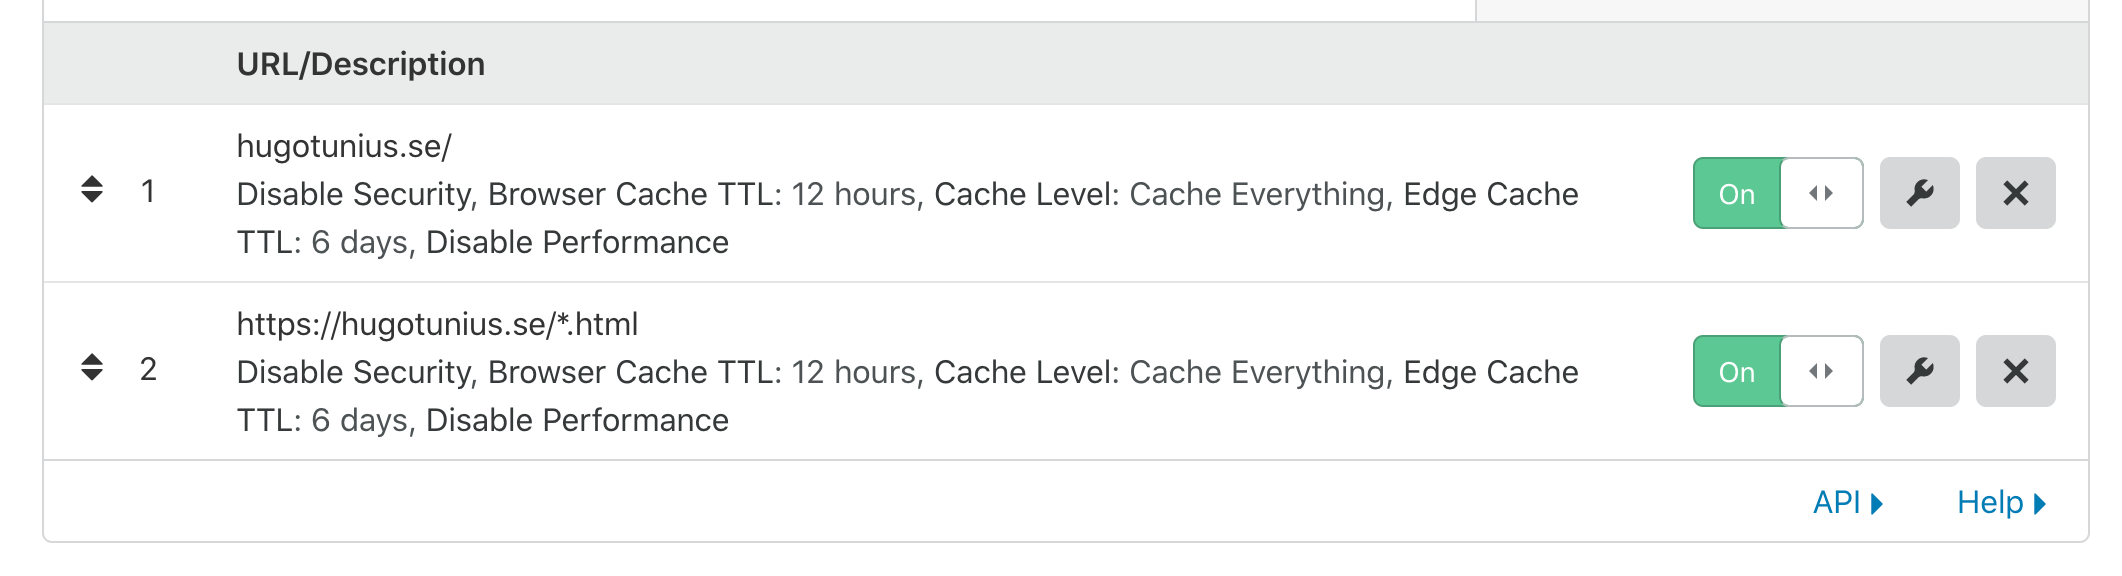
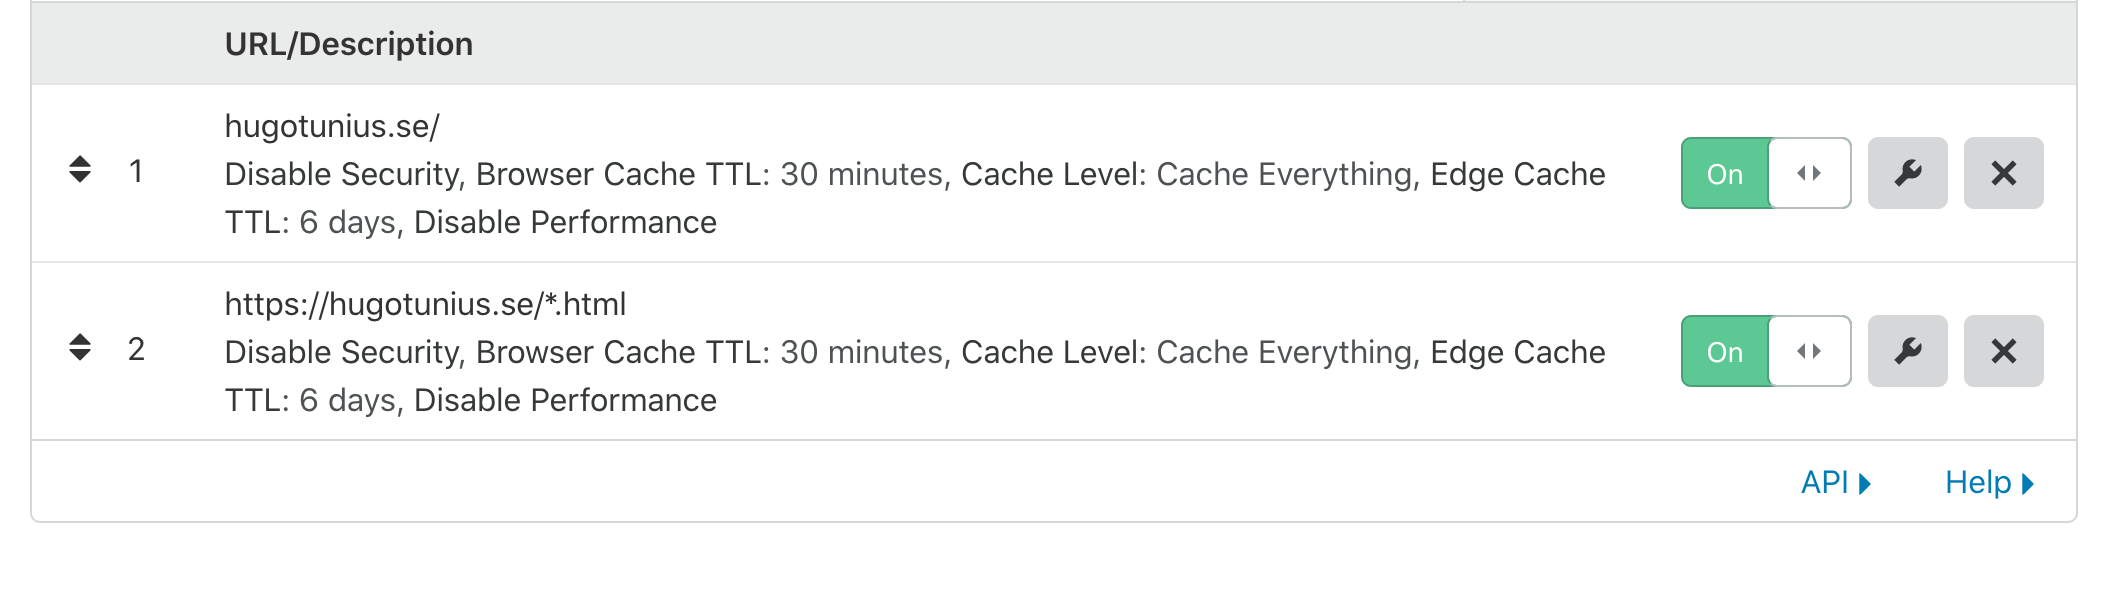
[CG Edge Cache] Browse cache settings

diff --git a/_posts/2020-01-01-edge-cached-static-sites-on-cloudflare.md b/_posts/2020-01-01-edge-cached-static-sites-on-cloudflare.md
@@ -24,7 +24,7 @@ _Page rules for edge caching_
 
 Here are the relevant rules I've used:
 
-* **Browser Cache TTL:** 12 Hours
+* **Browser Cache TTL:** 30 minutes, the lowest setting
 * **Cache Level:** Cache Everything
 * **Edge Cache TTL:** 6 days
 
